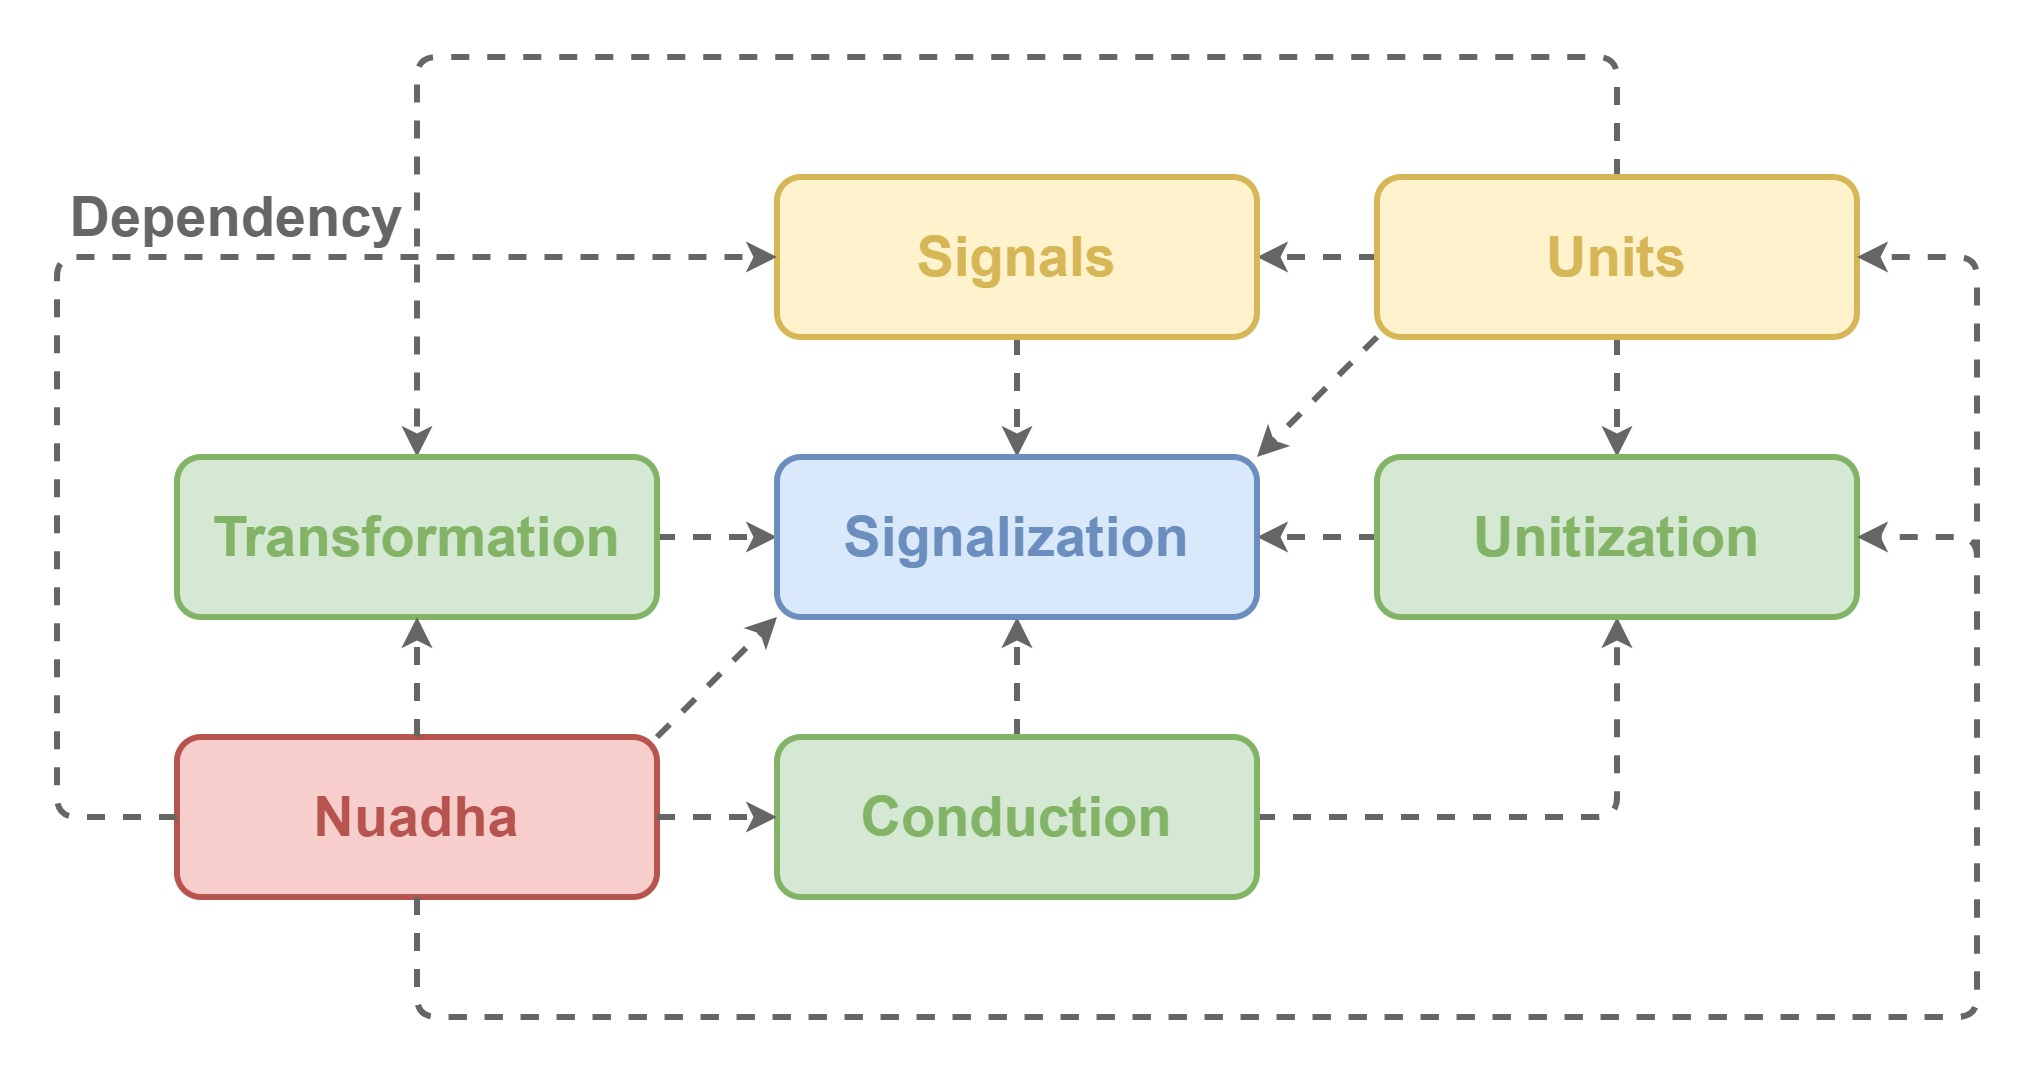
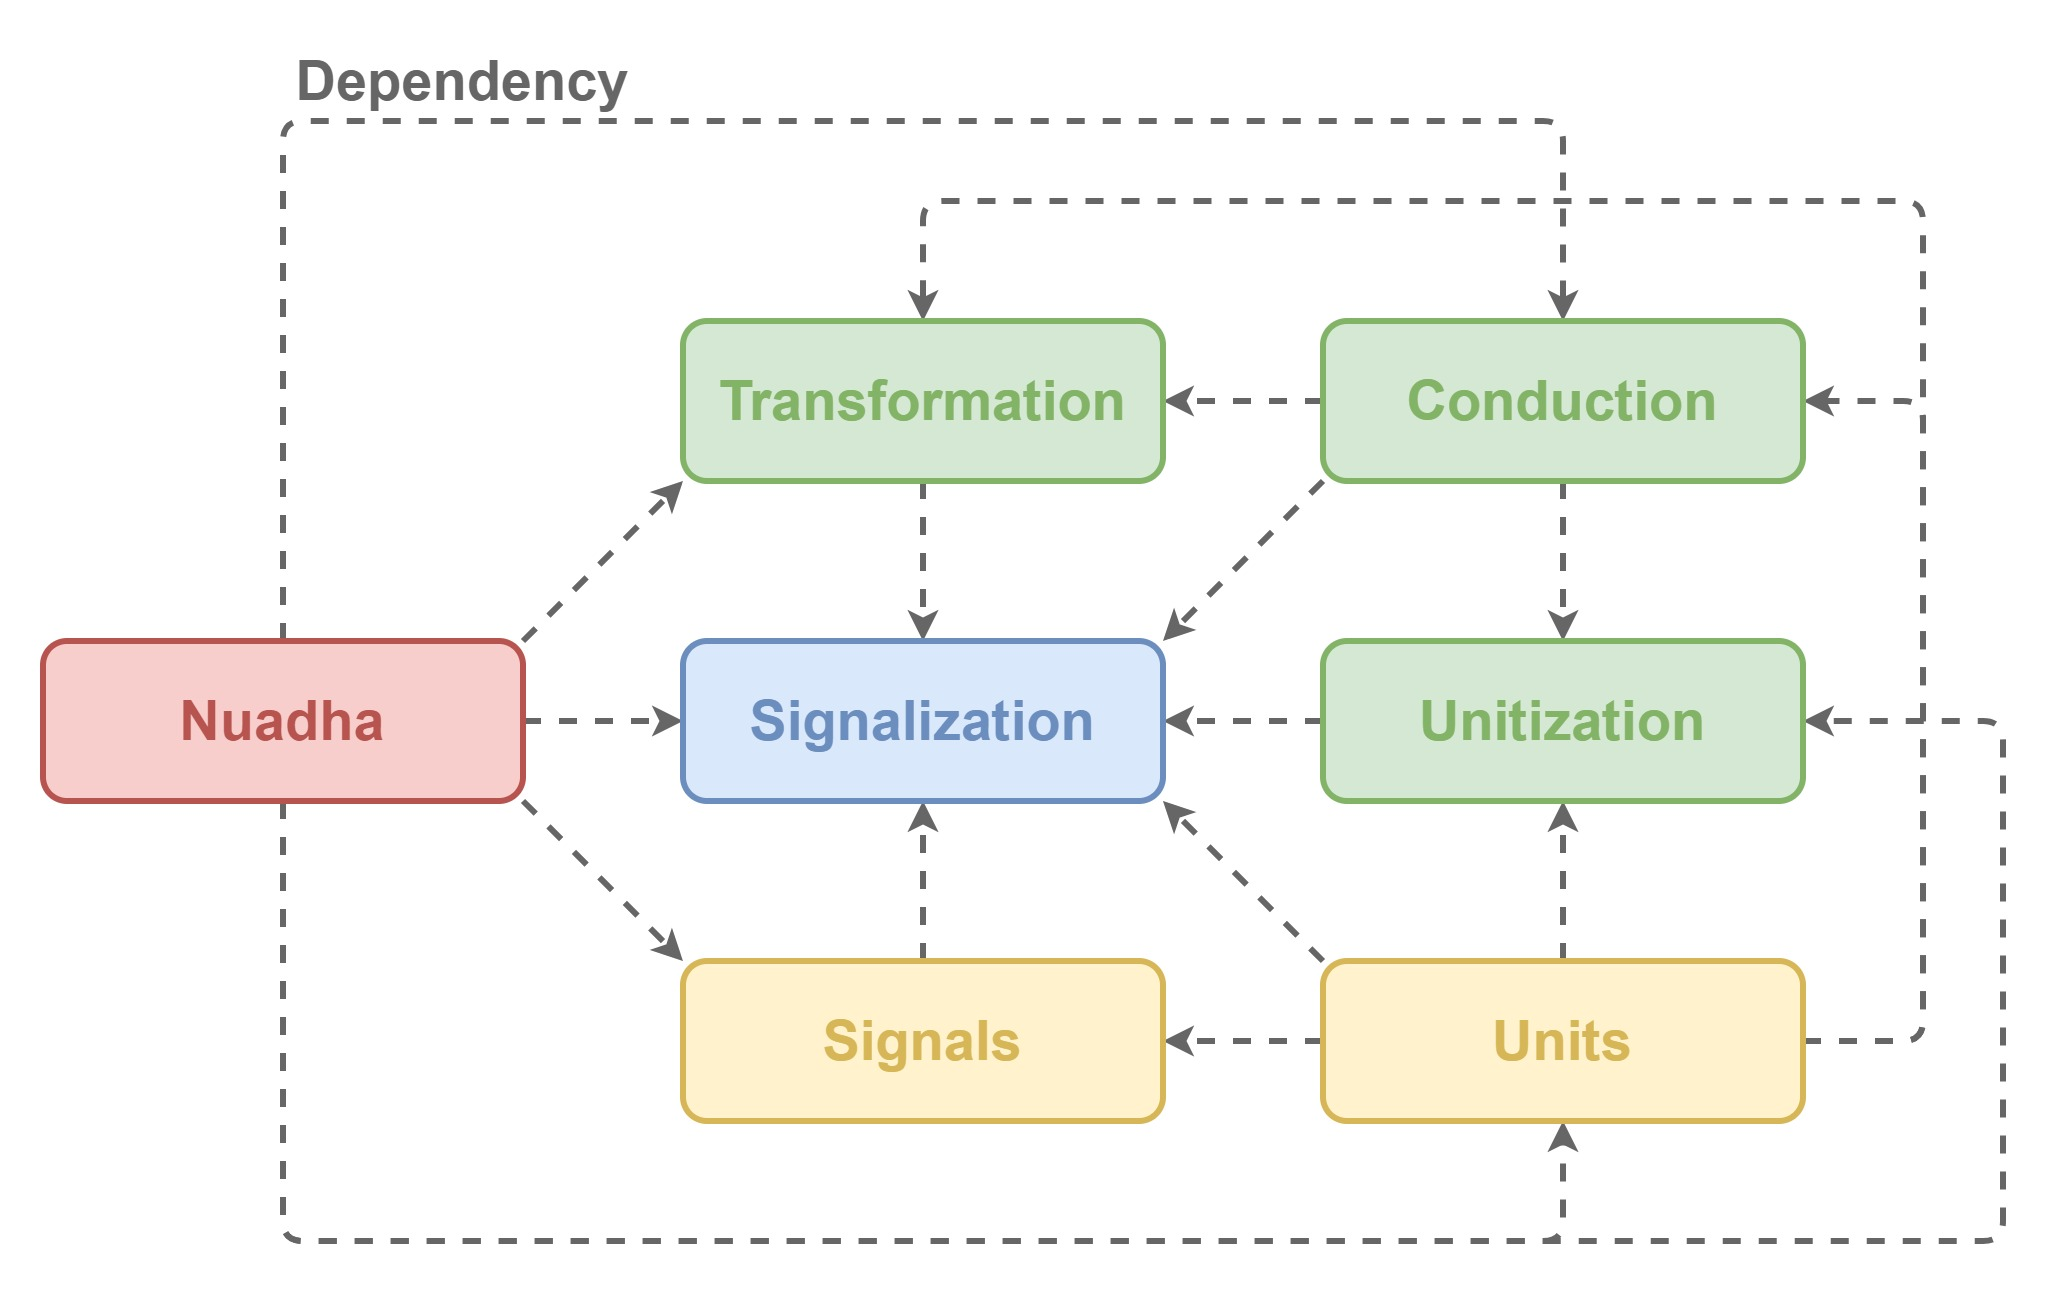
Modify documentations for framework

diff --git a/Documentation/Conduction.md b/Documentation/Conduction.md
@@ -1,6 +1,17 @@
 # Signals
 
-This module extends [Signalization](./Signalization.md) to define how to generate `Signal`.
+This module extends
+
+- [Signalization](./Signalization.md)
+- [Unitization](./Unitization.md)
+- [Transformation](./Transformation.md)
+
+to define how to
+
+- generate
+- convert
+
+`Signal`.
 
 ## Dependencies
 
@@ -8,22 +19,32 @@ This module depends on below.
 
 - [Signalization](./Signalization.md)
 - [Unitization](./Unitization.md)
+- [Transformation](./Transformation.md)
 
 ## Architecture
 
 | Word | Description |
 |:-|:-|
 | Emission | Token to send `Signal`. |
-| Transmission | Collects `Consumption` to send `Signal`. |
 | Generation | Creates `Signal`. |
-| Ignition | `Connection` to emit. |
+| Transmission | `Connection` to emit. |
+| Calibration | Calibrates `Signal` to correct. |
+| Filtration | Filtrates `Signal` to correct. |
 
 `Emission` is token to send `Signal`.
 `Generation` is how to generate `Signal` to convert `Transmission` that is `Emission` and `Production`.
-Every time `Transmission` Emits,  it sends `Signal` generated by `Generation` to each of `Consumption`.
 
-`Ignition` is `Emission` and `Connection`.
+`Transmission` is `Emission` and `Connection`.
+Every time `Transmission` Emits,  it sends `Signal`s to each of connected `Module`s.
+
+`Calibration` and `Filtration` is `Translation` of `Signal`.
+`Calibration` calibrates `Signal` to correct, and `Filtration` filtrates `Signal` to correct.
 
 ## Implementation
 
-Nothing.
+This module has internal implementations for
+
+- [Signalization](./Signalization.md)
+- [Transformation](./Transformation.md)
+
+in order to provide features of it.

diff --git a/Documentation/Units.md b/Documentation/Units.md
@@ -1,15 +1,16 @@
 # Units
 
-This module extends [Unitization](./Unitization.md) to define some types of `Handler` for hardware and software.
+This module extends [Unitization](./Unitization.md) to define some `Module`s for hardware and software.
 
 ## Dependencies
 
-This module depends on
+This module depends on below.
 
-- [Signalization](./Signalization.md).
-- [Transformation](./Transformation.md).
-- [Unitization](./Unitization.md).
-- [Signals](./Signals.md).
+- [Signalization](./Signalization.md)
+- [Unitization](./Unitization.md)
+- [Transformation](./Transformation.md)
+- [Conduction](./Conduction.md)
+- [Signals](./Signals.md)
 
 ## Architecture
 
@@ -32,4 +33,9 @@ and event below.
 
 ## Implementation
 
-Nothing.
+This module has internal implementations for
+
+- [Unitization](./Unitization.md)
+- [Conduction](./Conduction.md)
+
+in order to provide features of it.

diff --git a/README.md b/README.md
@@ -45,8 +45,8 @@ Please see [sample applications](https://github.com/do-i-know-it/YggdrAshill.Nua
 This framework consists of core modules below.
 
 - [Signalization](./Documentation/Signalization.md)
-- [Transformation](./Documentation/Transformation.md)
 - [Unitization](./Documentation/Unitization.md)
+- [Transformation](./Documentation/Transformation.md)
 - [Conduction](./Documentation/Conduction.md)
 
 This framework also includes sub modules below.

diff --git a/Documentation/Nuadha.md b/Documentation/Nuadha.md
@@ -7,8 +7,8 @@ This module is an entry point of this framework, helping developers to use it in
 This module depends on all of other modules:
 
 - [Signalization](./Signalization.md)
-- [Transformation](./Transformation.md)
 - [Unitization](./Unitization.md)
+- [Transformation](./Transformation.md)
 - [Conduction](./Conduction.md)
 - [Signals](./Signals.md)
 - [Units](./Units.md)
